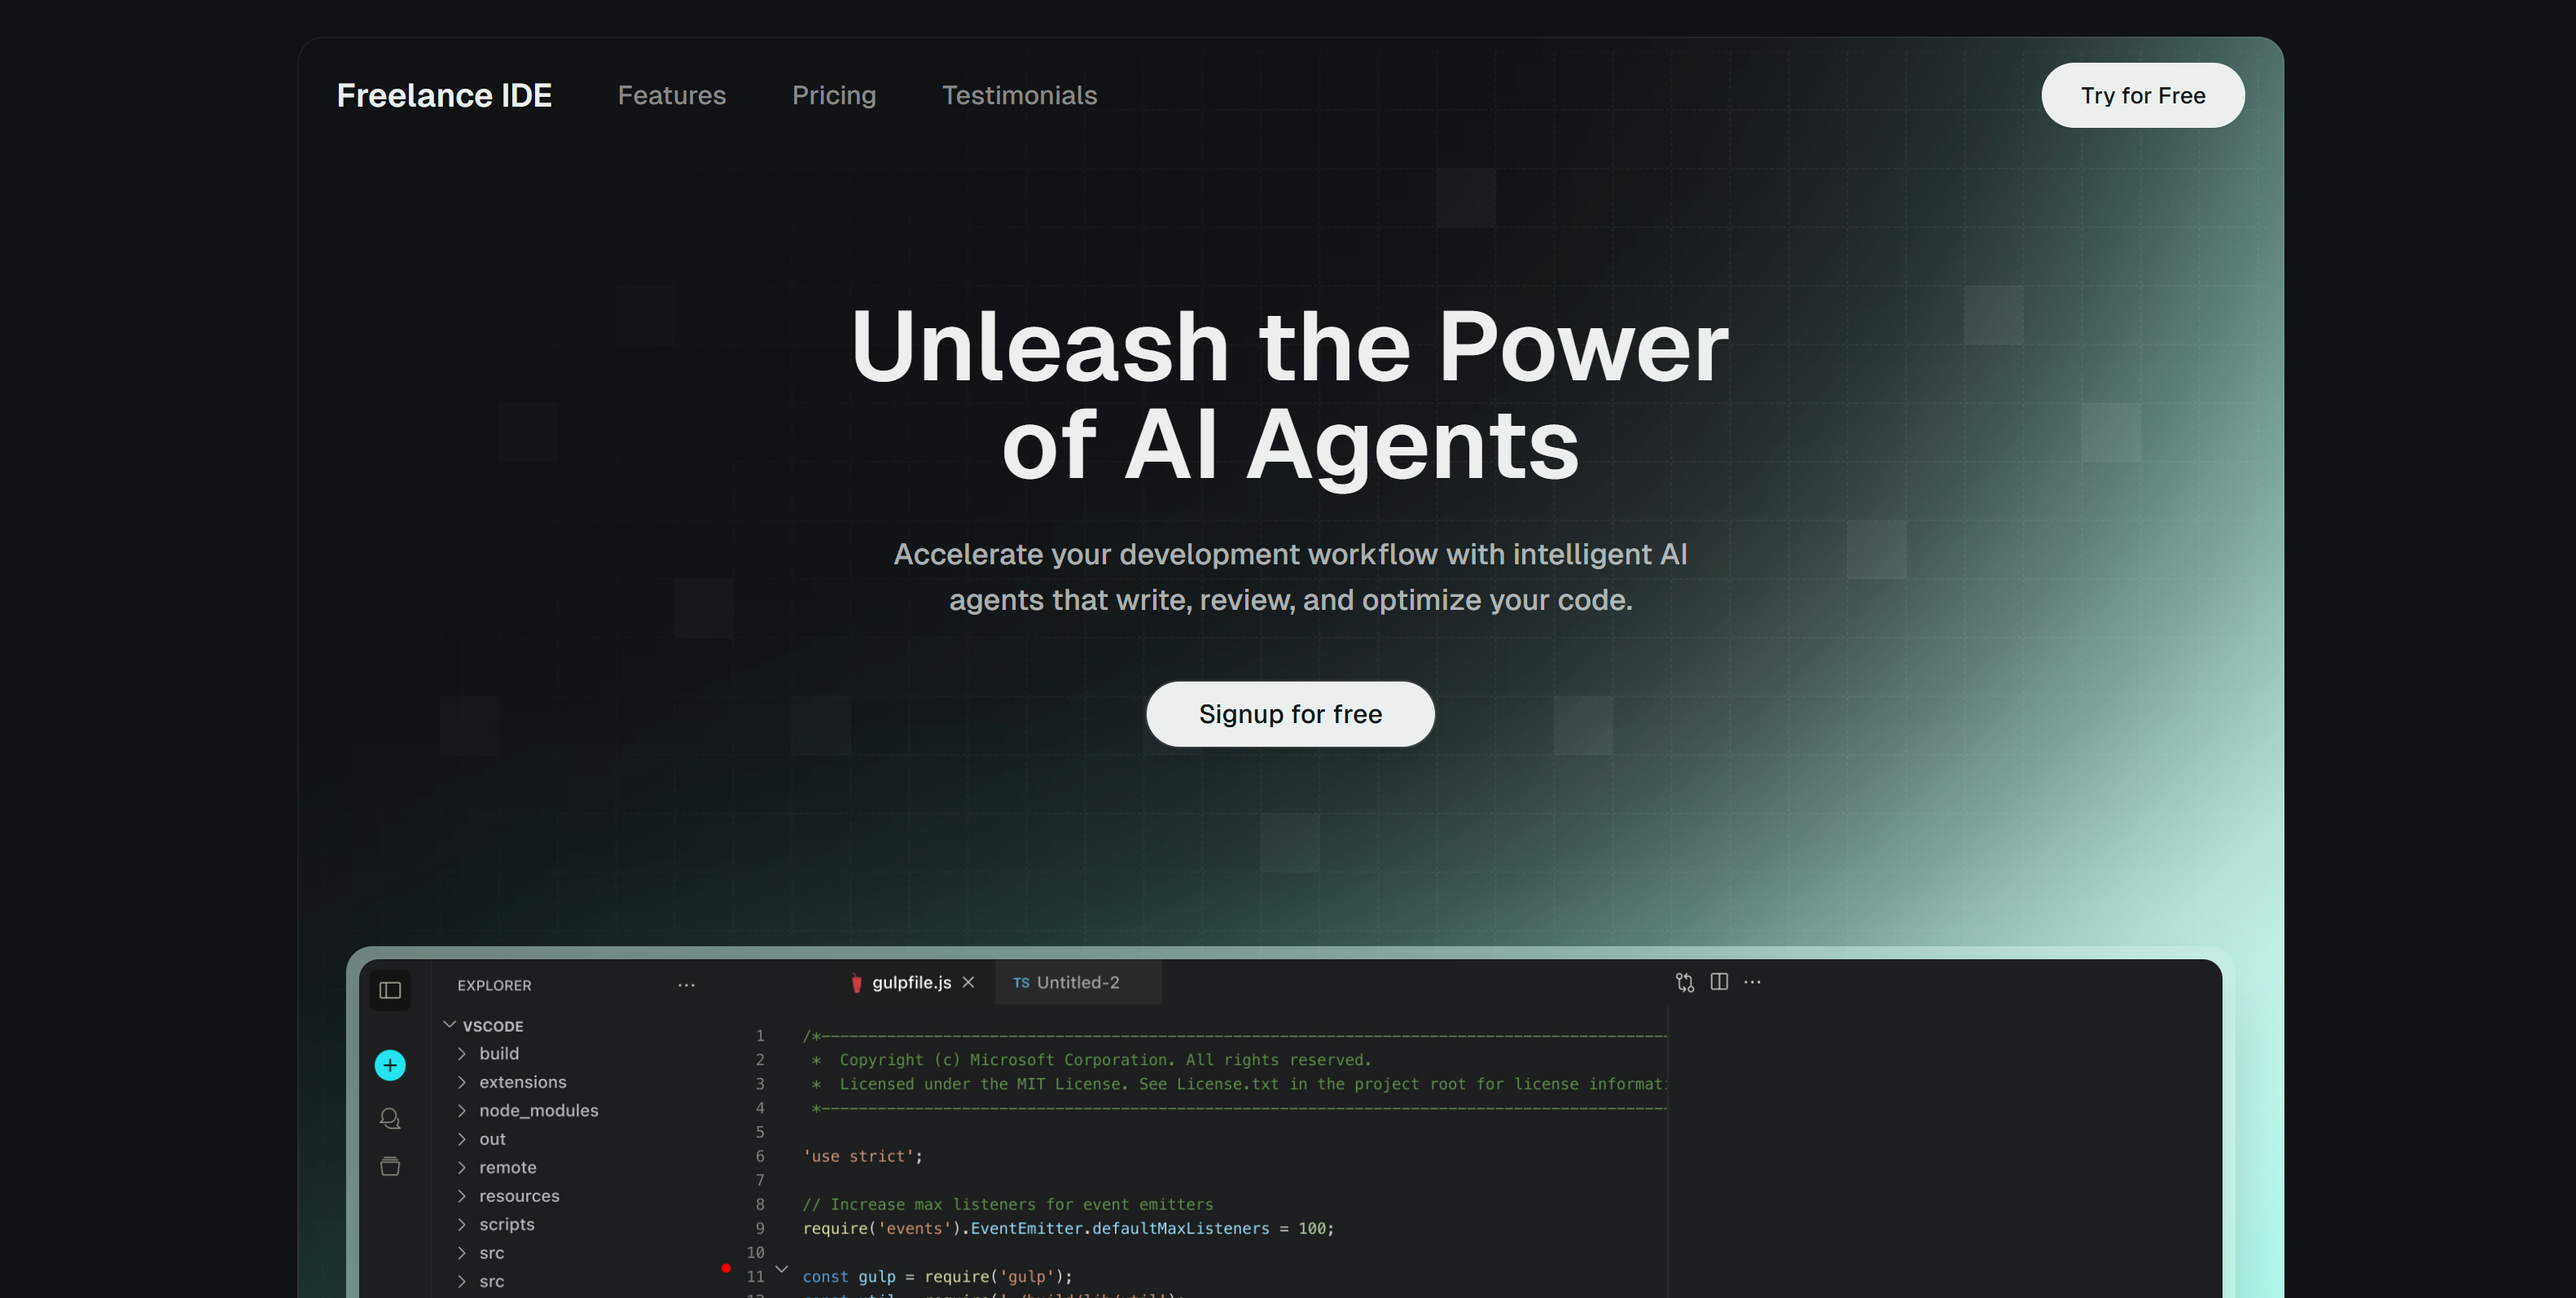
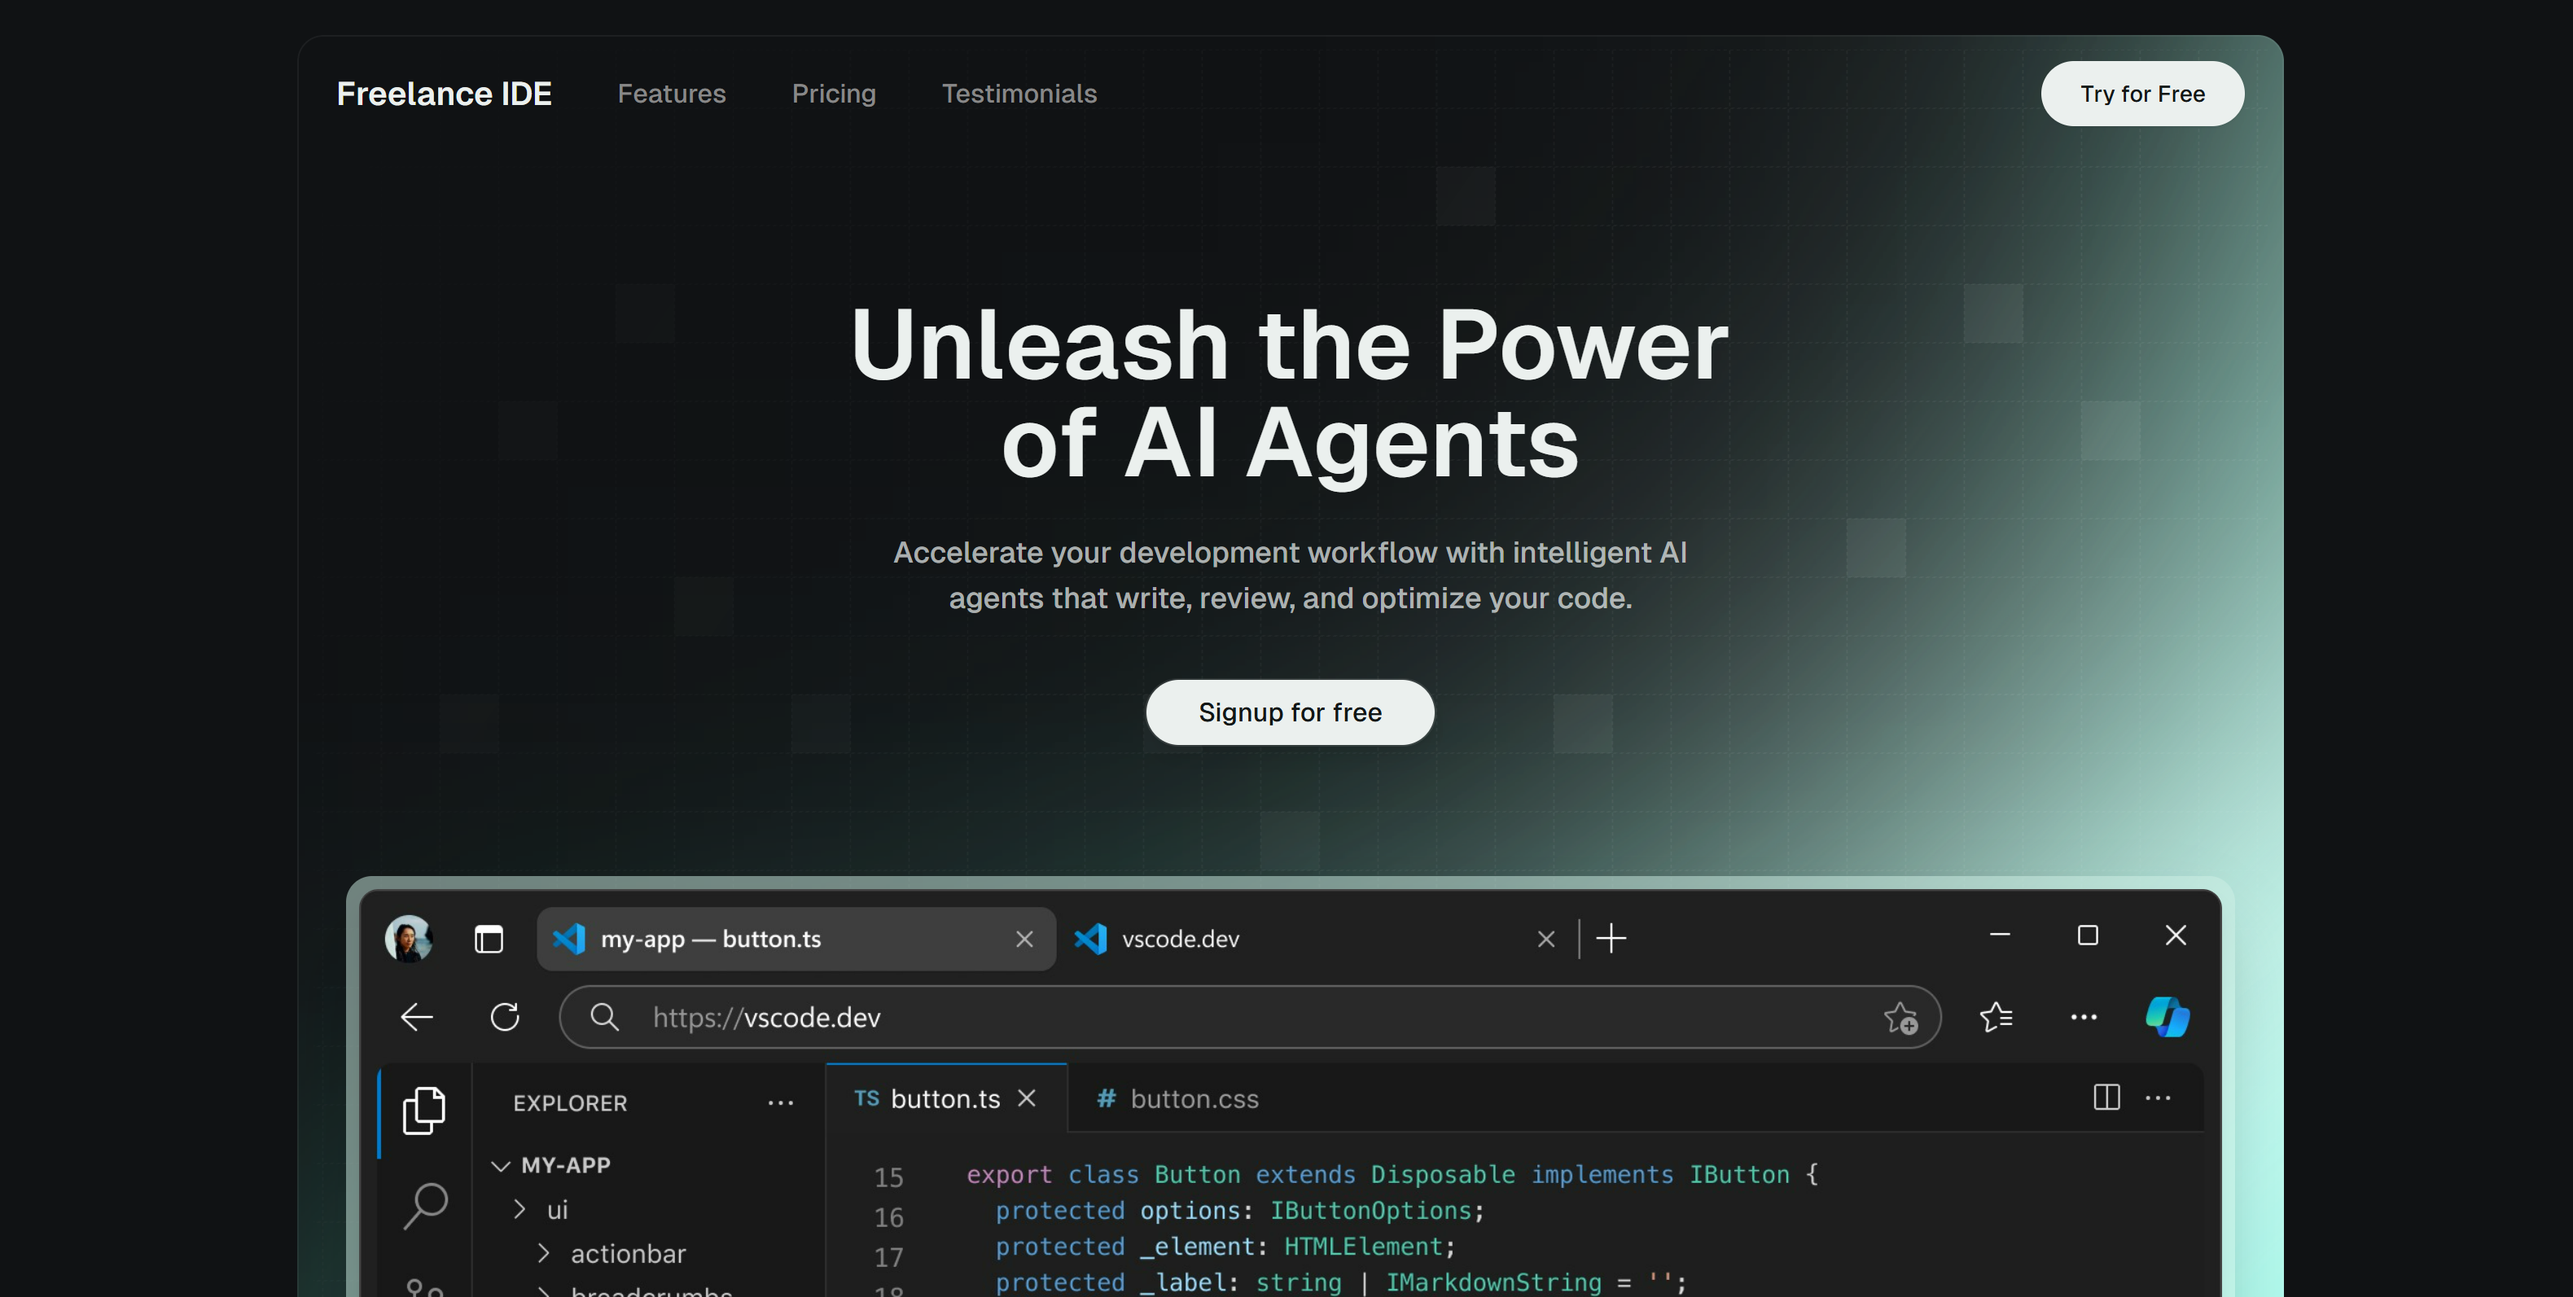
Images updated

diff --git a/components/dashboard-preview.tsx b/components/dashboard-preview.tsx
@@ -5,7 +5,7 @@ export function DashboardPreview() {
     <div className="w-[calc(100vw-32px)] md:w-[1160px]">
       <div className="bg-primary-light/50 rounded-2xl p-2 shadow-2xl">
         <Image
-          src="/images/dashboard-preview.png"
+          src="/images/dashboard-preview.jpg"
           alt="Dashboard preview"
           width={1160}
           height={700}

diff --git a/README.md b/README.md
@@ -1,5 +1,5 @@
-# Freelance Agentic IDE
+# Freelance Agentic IDE ⚡
 
 <img src="/public/images/Hero.png" alt="Hero">
 
-This project is a modern, responsive web application built with Next.js, TypeScript, and Tailwind CSS. It serves as a showcase of a freelance agentic IDE, featuring a variety of UI components and animations to create a rich and interactive user experience. The application is designed to be easily customizable and extensible, with a focus on clean code and a modular architecture.
+A modern, responsive web app built with Next.js, TypeScript, and Tailwind CSS, showcasing a freelance agentic IDE with rich UI components, animations, and a clean, modular, customizable design.
